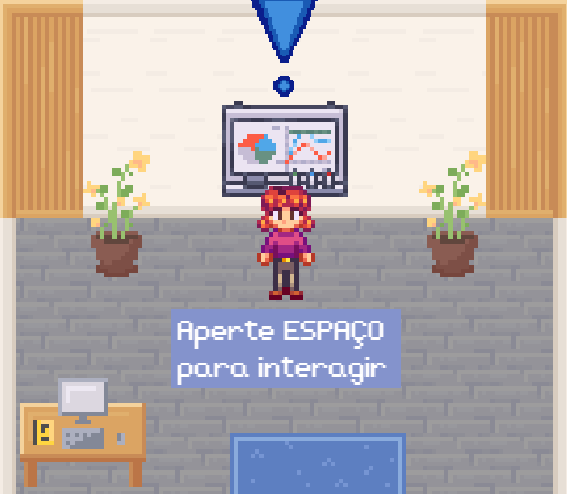
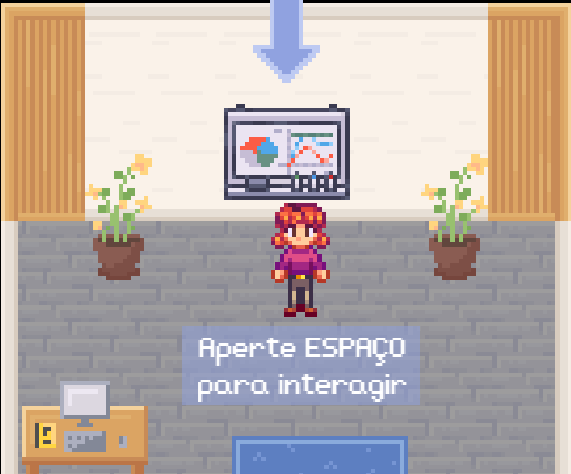
fix: atualização de imagens
Algumas imagens foram atualizadas para corresponder a versão final do mvp do jogo

Changed region(s): [[0.0, 0.0, 1.0, 1.0], [0.5697, 0.9747, 0.5996, 1.0]]

diff --git a/documents/gdd.md b/documents/gdd.md
@@ -557,7 +557,7 @@ No início do jogo, o jogador poderá se movimentar pelo escritório e encontrar
 
 <div style="text-align: center; margin-bottom: 1.5em;">
   <p style="margin-bottom: 0.3em; font-size: 0.95em; font-style: italic;">
-    <strong>Figura X:</strong> Exemplo de objeto interativo, marcado pela exclamação
+    <strong>Figura X:</strong> Exemplo de objeto interativo, marcado pela seta
   </p>
   <img src="../assets/gdd_3.3/mapa2.png" alt="Objeto Interativo" style="max-width: 100%; height: auto; border-radius: 6px; margin: 0.5em 0;" />
   <p style="margin-top: 0.3em; font-size: 0.85em; font-style: italic;">
